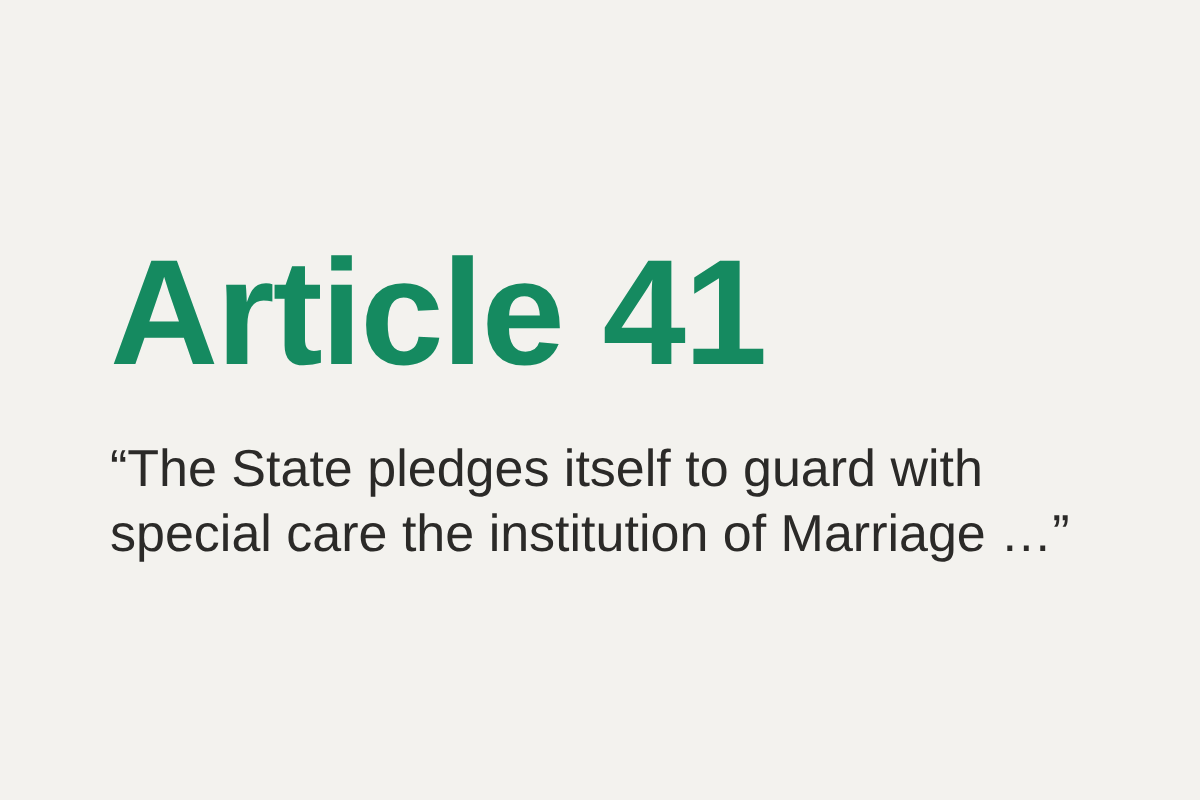
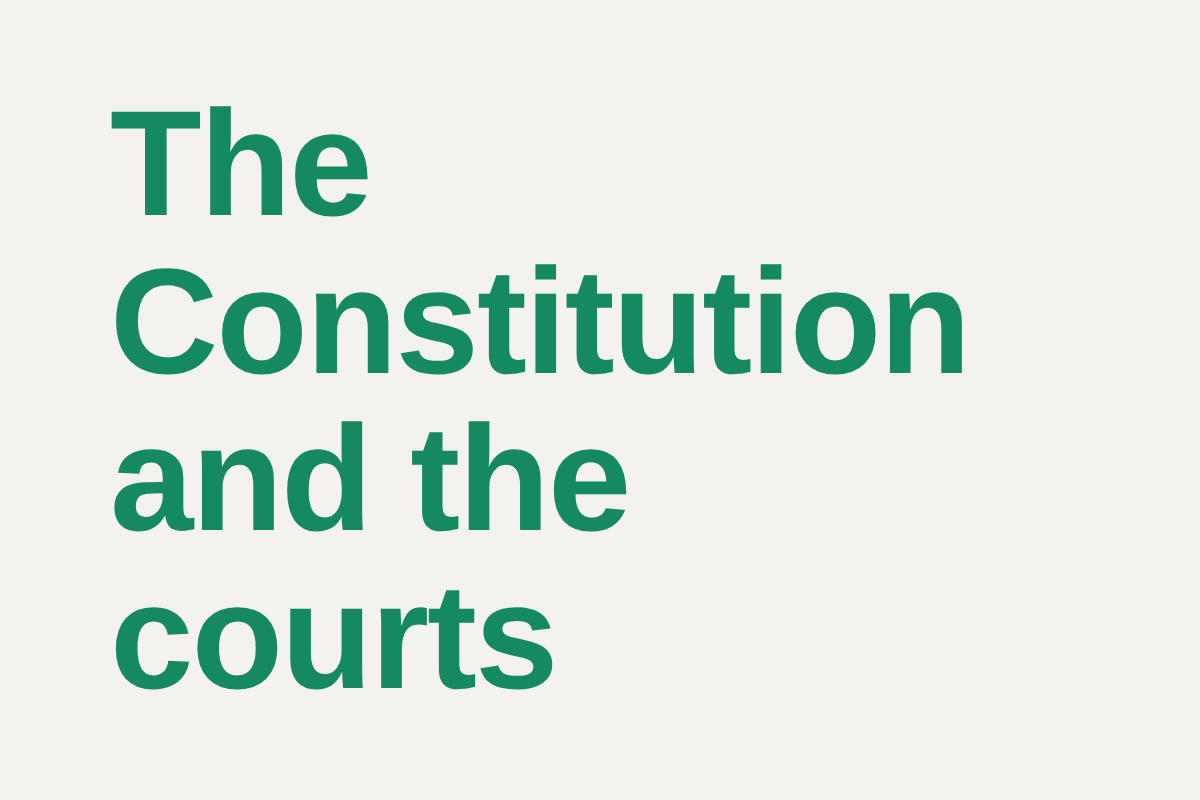
Rename to Marriage in Ireland, put headings inside the tiles, hold back the essay
The project tiles now carry their own headings, with no titles underneath.
The Why marriage? essay is taken off the site until it is written.

Claude-Session: https://claude.ai/code/session_01Wbsbq43nNiASMvti1Cx9yU

diff --git a/analysis/marriage/make_tiles.js b/analysis/marriage/make_tiles.js
@@ -1,14 +1,14 @@
-// Draws the project tiles for "Married, or not" (images/marriage*.png) with Playwright.
+// Draws the project tiles for "Marriage in Ireland" (images/marriage*.png) with Playwright.
 // Run from the repository root: node analysis/marriage/make_tiles.js
 const { chromium } = require("playwright");
 const path = require("path");
 
+// [file, heading, line under it, colour of the heading]
 const tiles = [
   ["marriage.png", "€0 / €91,740", "Inheritance tax on a €300,000 half share of a home, for a spouse and for an unmarried partner", "#c4501f"],
-  ["marriage-cost.png", "up to €3,925", "more income tax a year for a one-earner couple who aren't married", "#c4501f"],
-  ["marriage-calculator.png", "€ ? ", "What not being married costs over a lifetime: try your own numbers", "#2a78d6"],
-  ["marriage-constitution.png", "Article 41", "“The State pledges itself to guard with special care the institution of Marriage …”", "#158a60"],
-  ["marriage-why.png", "Why marriage?", "A personal essay", "#52514e"],
+  ["marriage-cost.png", "The cost of not marrying", "", "#c4501f"],
+  ["marriage-calculator.png", "Calculator", "", "#2a78d6"],
+  ["marriage-constitution.png", "The Constitution and the courts", "", "#158a60"],
 ];
 
 (async () => {
@@ -17,8 +17,8 @@ const tiles = [
   for (const [file, big, small, colour] of tiles) {
     await page.setContent(`<!doctype html><html><body style="margin:0;width:1200px;height:800px;background:#f3f2ee;
       font-family:'Source Sans Pro','Liberation Sans',Arial,sans-serif;display:flex;flex-direction:column;justify-content:center;padding:0 110px;box-sizing:border-box">
-      <div style="font-size:150px;font-weight:600;color:${colour};line-height:1.05;letter-spacing:-2px">${big}</div>
-      <div style="margin-top:44px;font-size:52px;line-height:1.25;color:#2b2a28;max-width:960px">${small}</div>
+      <div style="font-size:${big.length > 14 ? 150 : 170}px;font-weight:700;color:${colour};line-height:1.05;letter-spacing:-2px">${big}</div>
+      ${small ? `<div style="margin-top:44px;font-size:52px;line-height:1.25;color:#2b2a28;max-width:960px">${small}</div>` : ""}
       </body></html>`);
     await page.screenshot({ path: path.join(__dirname, "..", "..", "images", file) });
   }

diff --git a/marriage/tax-rules.js b/marriage/tax-rules.js
@@ -1,4 +1,4 @@
-// Irish tax rules used by the "Married, or not" calculator and worked examples.
+// Irish tax rules used by the "Marriage in Ireland" calculator and worked examples.
 // Tax year 2027 (Budget 2027, announced 6 October 2026). Update this file after each Budget.
 // Sources are listed on marriage/sources.qmd; each value notes where it comes from.
 (function (root) {

diff --git a/README.md b/README.md
@@ -13,7 +13,7 @@ Built with [Quarto](https://quarto.org). Every push to `main` builds the site an
 - `analysis/charts/make_maps.py`: draws the patronage maps and headline numbers on the Schools page (`religion/_patronage-stats.md`), the preference-versus-provision chart, and the school ethos and Primary School Survey maps on county outlines (`analysis/charts/data/ireland_counties.geojson`, built by `make_geography.py` from Natural Earth). Inputs are in `analysis/charts/data/raw/`.
 - `tools/fetch_school_lists.py`: downloads new or changed "Data on Individual Schools" lists from gov.ie (or data.gov.ie). gov.ie refuses requests from GitHub's servers, so run it from your own computer, or download the list and upload it to `analysis/charts/data/raw/` on GitHub. Either way, a push of a new list to `main` starts the `Refresh school data` workflow, which redraws the maps and opens a pull request.
 - `analysis/cycling/`: DLR's open bicycle counter data (`data/raw/`, fetched by `tools/fetch_cycle_counts.py`), `dlr_counts.py`, which loads and cleans it, `make_counter_page.py`, which draws the DLR cycle counters page, and `make_cycling_charts.py`, which draws the counter charts on the Blackrock DART laneway page. The `Refresh cycle counts` workflow checks for new data every Monday, redraws both, commits them to `main` and republishes the site.
-- `marriage/`: the Married, or not project. `marriage/tax-rules.js` holds the tax rules (update after each Budget); `node analysis/marriage/make_examples.js` redraws the worked-examples table and `node analysis/marriage/make_tiles.js` the tile images.
+- `marriage/`: the Marriage in Ireland project. `marriage/tax-rules.js` holds the tax rules (update after each Budget); `node analysis/marriage/make_examples.js` redraws the worked-examples table and `node analysis/marriage/make_tiles.js` the tile images.
 - `analysis/charities/`: the pipeline for the charities landscape. Moved from [opentalamh/opentalamh.ie](https://github.com/opentalamh/opentalamh.ie).
 
 Text and figures are CC BY 4.0. Code is MIT licensed (see `LICENSE-code`).
